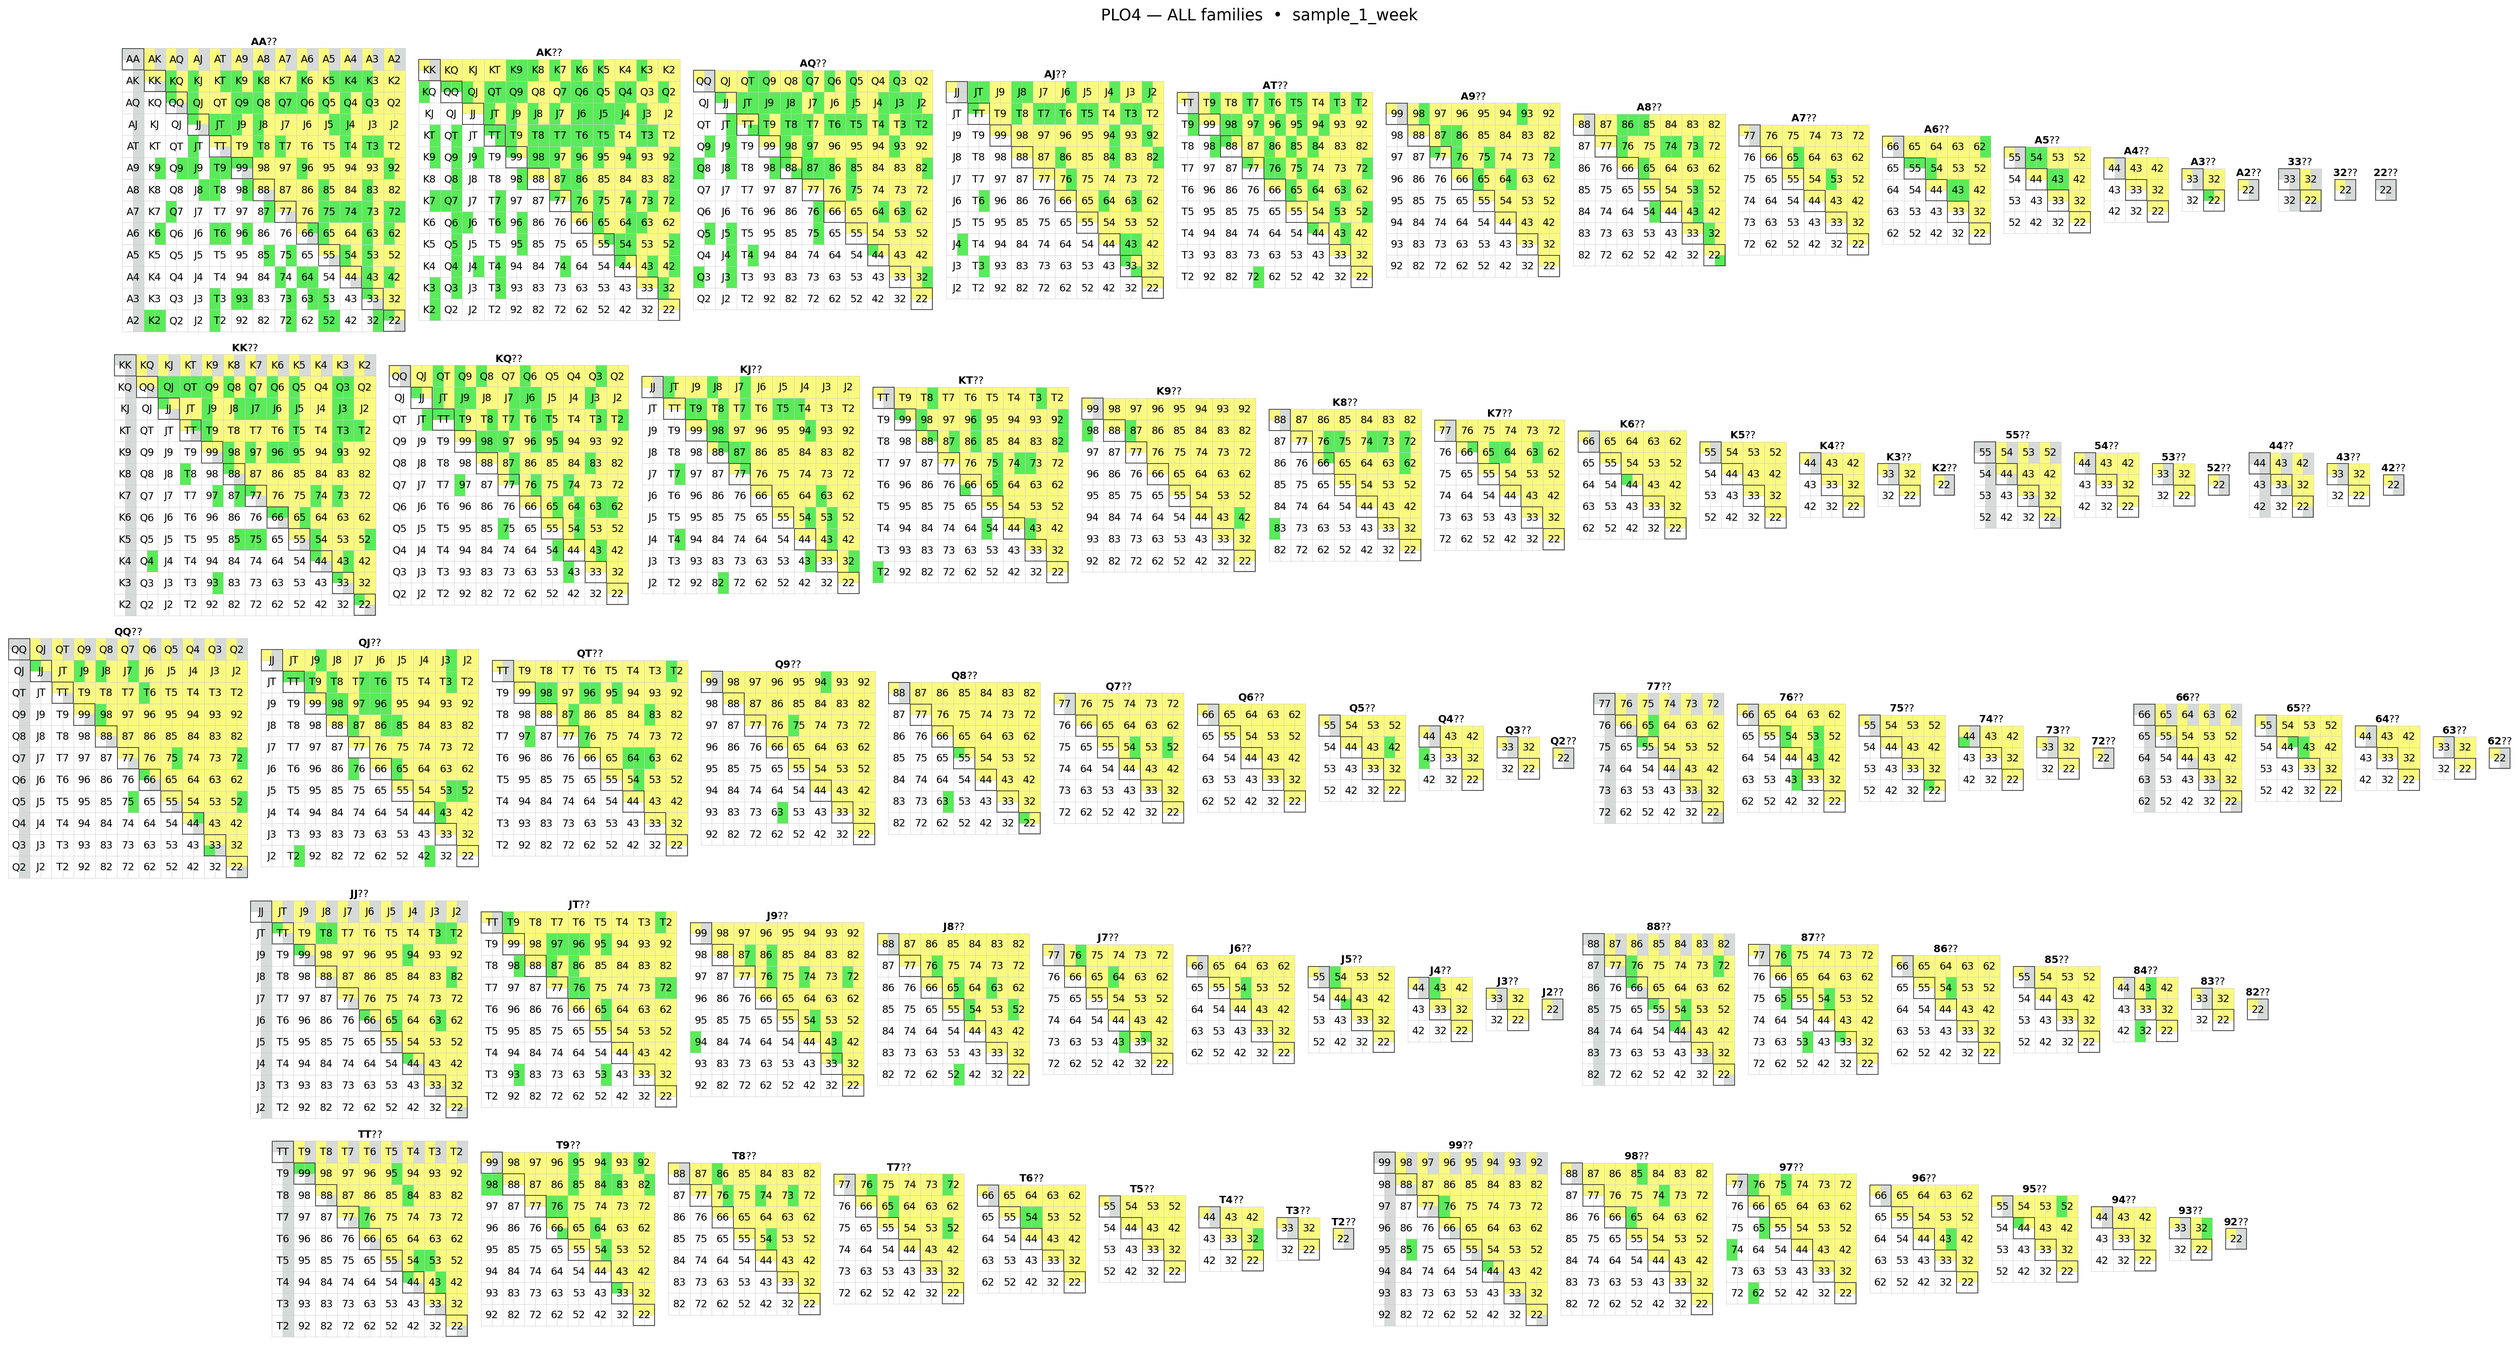
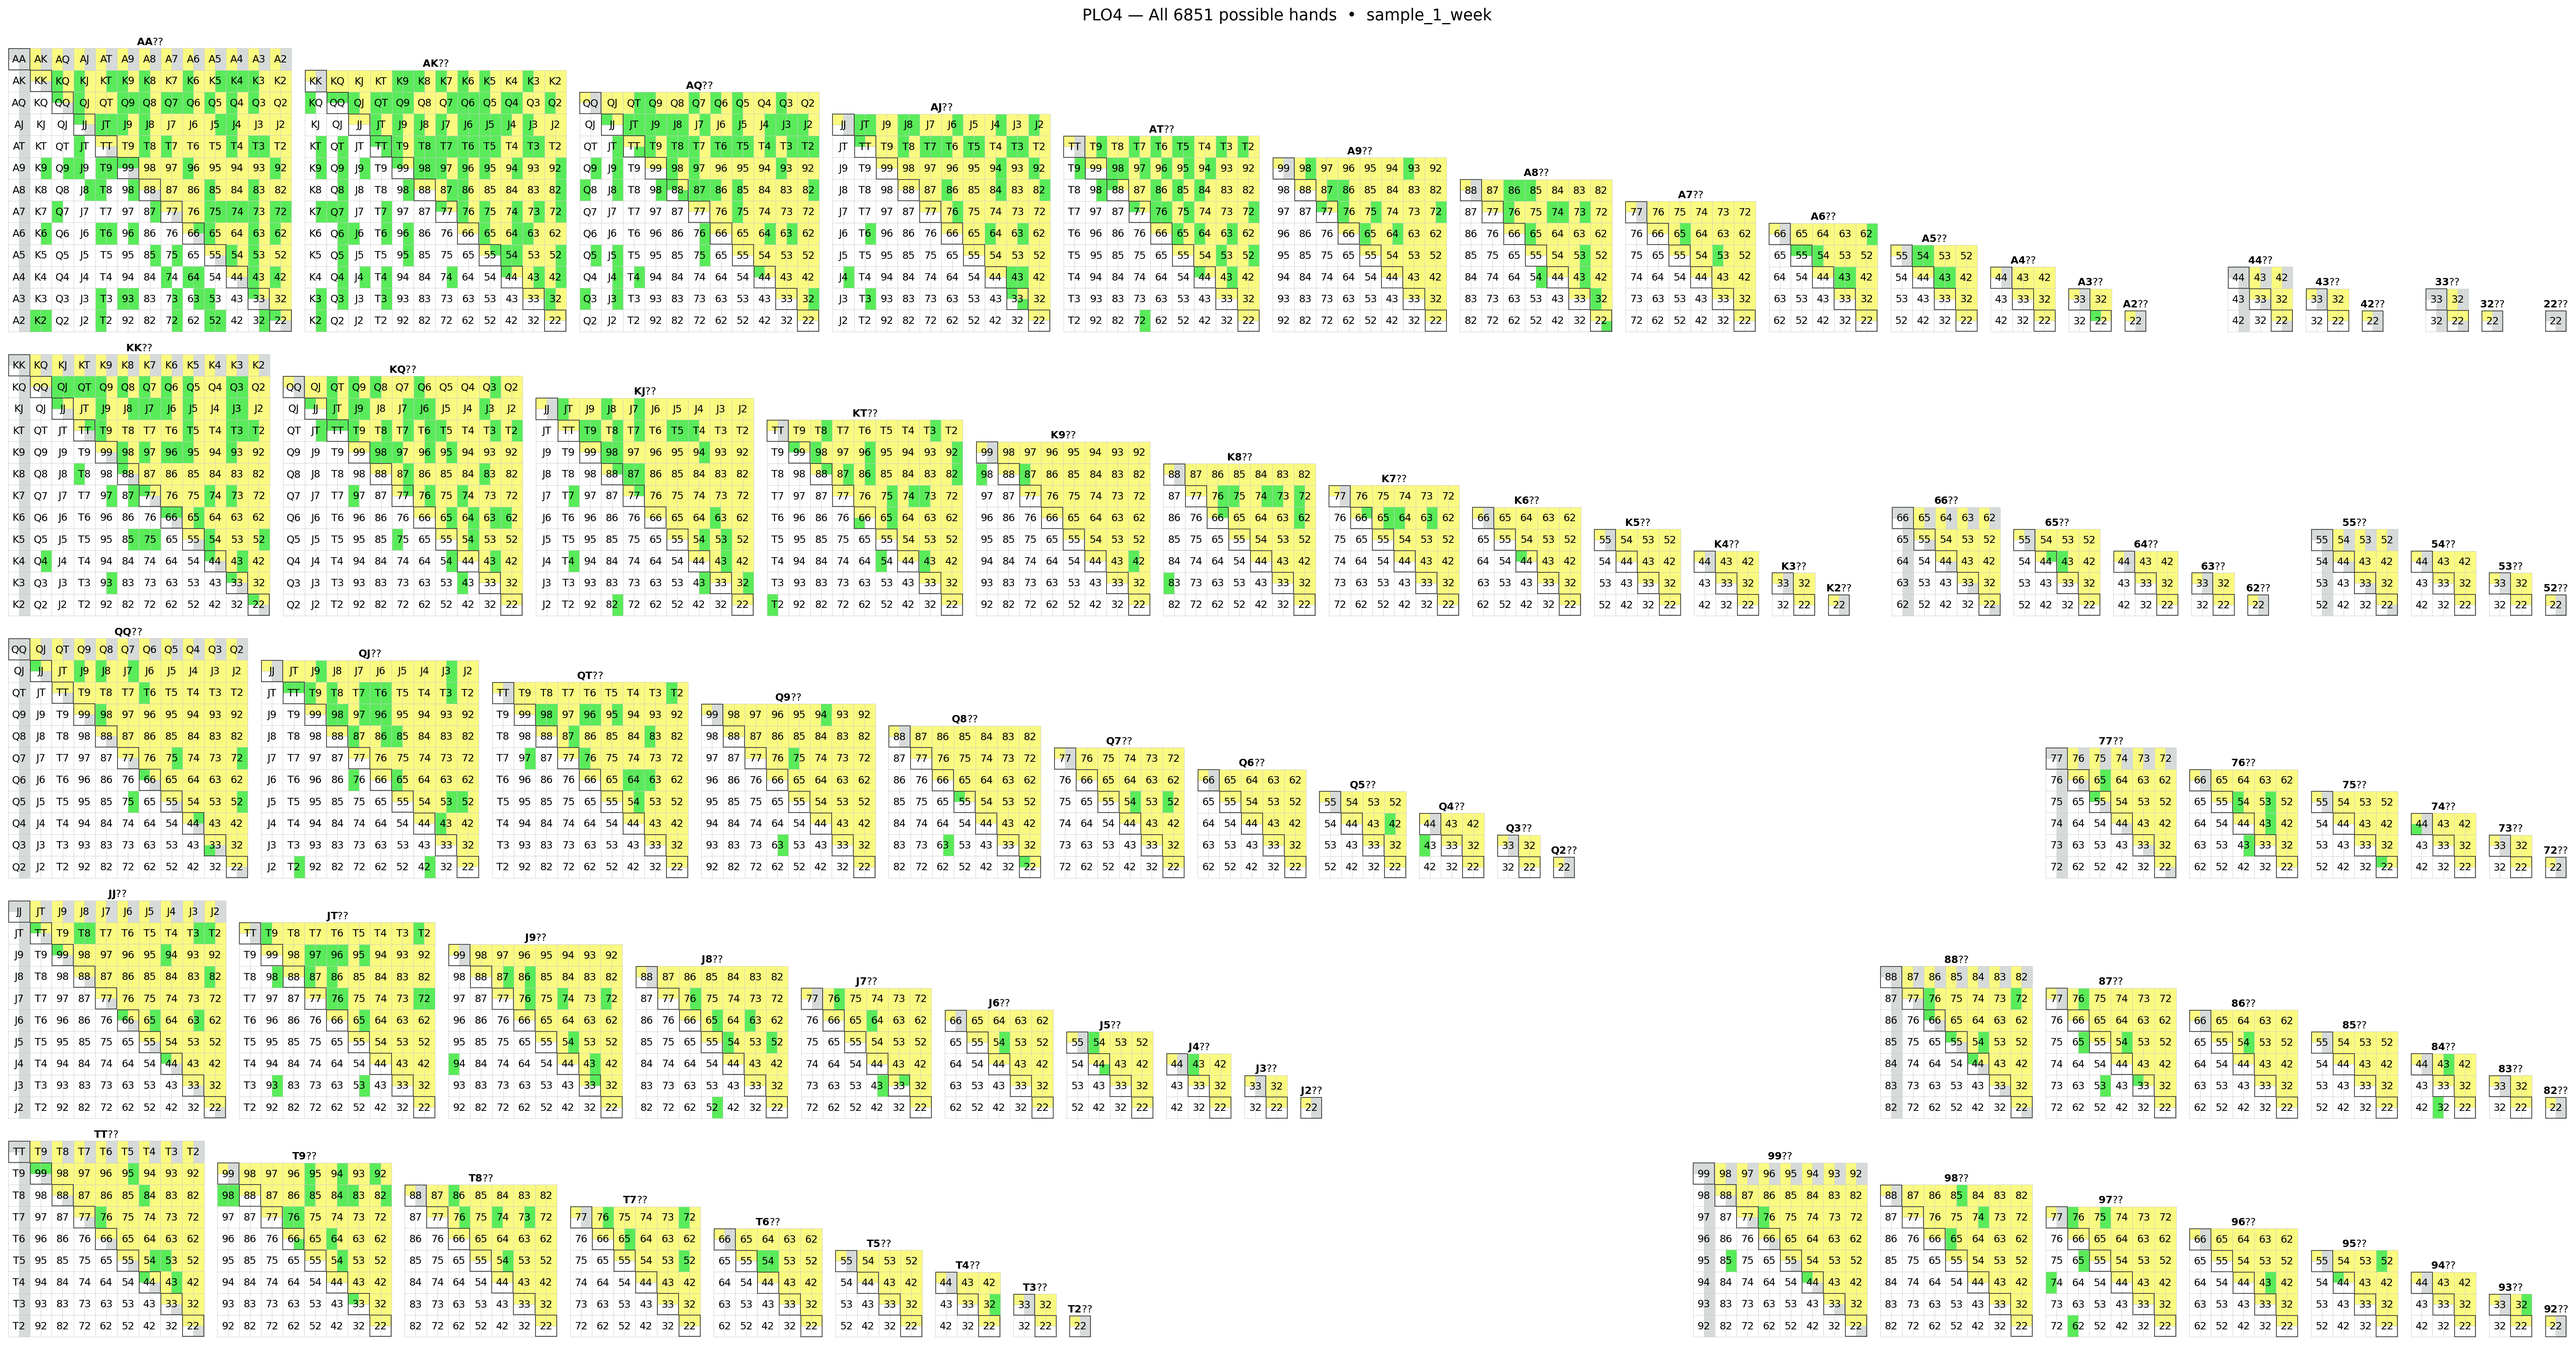
feat: Perfect full layout

diff --git a/plo4_draw_hands.py b/plo4_draw_hands.py
@@ -250,15 +250,11 @@ def render_pair(csv_path, all_labels, pair):
 
 
 def render_all(csv_path, all_labels):
-    CELL = 0.42  # inches per cell
-    GAP_W = 0.24  # gap between grids inside a family
-    FAM_GAP = 0.36  # gap between families in the same row
-    ROW_GAP = 0.42  # gap between rows
-    TITLE_H = 0.90  # suptitle clearance
-
-    def family_parts(hi):
-        lowers = CARDS[CARDS.index(hi) :]
-        return [(lo, len(CARDS) - CARDS.index(lo)) for lo in lowers]  # (lo, n)
+    CELL = 0.42
+    GAP_W = 0.24  # inside a family (between grids)
+    FAM_GAP = 0.80  # between complete families (bigger)
+    ROW_GAP = 0.42
+    TITLE_H = 0.90
 
     def family_dims(parts):
         if not parts:
@@ -267,48 +263,83 @@ def render_all(csv_path, all_labels):
         h = max(n for _, n in parts) * CELL
         return w, h
 
-    # Banded order (new default):
-    bands = [["A", "3", "2"], ["K", "5", "4"], ["Q", "7", "6"], ["J", "8"], ["T", "9"]]
+    # banded order; first in each row will be flush-left, the rest flush-right
+    bands = [
+        ["A", "4", "3", "2"],
+        ["K", "6", "5"],
+        ["Q", "7"],
+        ["J", "8"],
+        ["T", "9"],
+    ]
     bands = [[hi for hi in grp if hi in CARDS] for grp in bands]
 
     fam_parts = {hi: family_parts(hi) for grp in bands for hi in grp}
+
+    # rows: [( [(hi, parts, w, h), ...], row_w, row_h ), ...]
     row_specs = []
     for grp in bands:
-        row_fams = [(hi, fam_parts[hi]) for hi in grp]
-        row_w = sum(family_dims(p)[0] for _, p in row_fams) + FAM_GAP * (
-            len(row_fams) - 1 if row_fams else 0
-        )
-        row_h = max((family_dims(p)[1] for _, p in row_fams), default=0.0)
-        row_specs.append((row_fams, row_w, row_h))
+        fams, row_w, row_h = [], 0.0, 0.0
+        for idx, hi in enumerate(grp):
+            parts = fam_parts[hi]
+            w, h = family_dims(parts)
+            fams.append((hi, parts, w, h))
+            row_w += (FAM_GAP if idx > 0 else 0.0) + w
+            row_h = max(row_h, h)
+        row_specs.append((fams, row_w, row_h))
 
     inner_w = max((rw for _, rw, _ in row_specs), default=0.0)
     fig_w = inner_w
     fig_h = TITLE_H + sum(h for _, _, h in row_specs) + ROW_GAP * (len(row_specs) - 1)
 
     fig = plt.figure(figsize=(fig_w, fig_h))
-    fig.suptitle(f"PLO4 — ALL families  •  {csv_path.stem}", fontsize=22, y=0.995)
+    fig.suptitle(
+        f"PLO4 — All 6851 possible hands  •  {csv_path.stem}", fontsize=22, y=0.995
+    )
 
     y = fig_h - TITLE_H
-    for row_fams, row_w, row_h in row_specs:
+    for fams, row_w, row_h in row_specs:
         y -= row_h
-        x = (inner_w - row_w) / 2
-        for hi, parts in row_fams:
-            fam_w, _ = family_dims(parts)
-            gx = x
-            for lo, n in parts:
-                gw = gh = n * CELL
-                bottom = y + (row_h - gh) / 2
-                ax = fig.add_axes([gx / fig_w, bottom / fig_h, gw / fig_w, gh / fig_h])
-                have = {h for h in all_labels if h.startswith(hi + lo)}
-                draw_one(ax, have, hi, lo)
-                ax.set_title(rf"$\mathbf{{{hi}{lo}}}$??", fontsize=14, pad=4)
-                gx += gw + GAP_W
-            x += fam_w + FAM_GAP
-        y -= ROW_GAP
+        x_left = 0.0
+        x_right = inner_w
 
-    out_png = csv_path.with_suffix("").with_name(f"{csv_path.stem}_ALL_families.png")
-    fig.savefig(out_png, dpi=120, bbox_inches="tight", pad_inches=0.15)
-    print(f"Wrote {out_png}")
+        if not fams:
+            y -= ROW_GAP
+            continue
+
+        # place FIRST family flush-left (bottom-aligned)
+        first_hi, first_parts, first_w, _ = fams[0]
+        gx = x_left
+        for lo, n in first_parts:
+            gw = gh = n * CELL
+            bottom = y  # flat bottoms
+            ax = fig.add_axes([gx / fig_w, bottom / fig_h, gw / fig_w, gh / fig_h])
+            have = {h for h in all_labels if h.startswith(first_hi + lo)}
+            draw_one(ax, have, first_hi, lo)
+            ax.set_title(rf"$\mathbf{{{first_hi}{lo}}}$??", fontsize=14, pad=4)
+            gx += gw + GAP_W
+
+        # place remaining families as a right-aligned block
+        rest = fams[1:]
+        if rest:
+            rest_w = sum(w for _, _, w, _ in rest) + FAM_GAP * (len(rest) - 1)
+            gx = x_right - rest_w
+            for idx, (hi, parts, w, _) in enumerate(rest):
+                # grids inside a family
+                for j, (lo, n) in enumerate(parts):
+                    gw = gh = n * CELL
+                    bottom = y
+                    ax = fig.add_axes(
+                        [gx / fig_w, bottom / fig_h, gw / fig_w, gh / fig_h]
+                    )
+                    have = {h for h in all_labels if h.startswith(hi + lo)}
+                    draw_one(ax, have, hi, lo)
+                    ax.set_title(rf"$\mathbf{{{hi}{lo}}}$??", fontsize=14, pad=4)
+                    gx += gw + GAP_W
+                # convert last internal GAP_W into a FAM_GAP, but skip after final family
+                if idx < len(rest) - 1:
+                    gx += FAM_GAP - GAP_W
+
+        y -= ROW_GAP
 
     out_png = csv_path.with_suffix("").with_name(f"{csv_path.stem}_ALL_families.png")
     fig.savefig(out_png, dpi=120, bbox_inches="tight", pad_inches=0.15)
